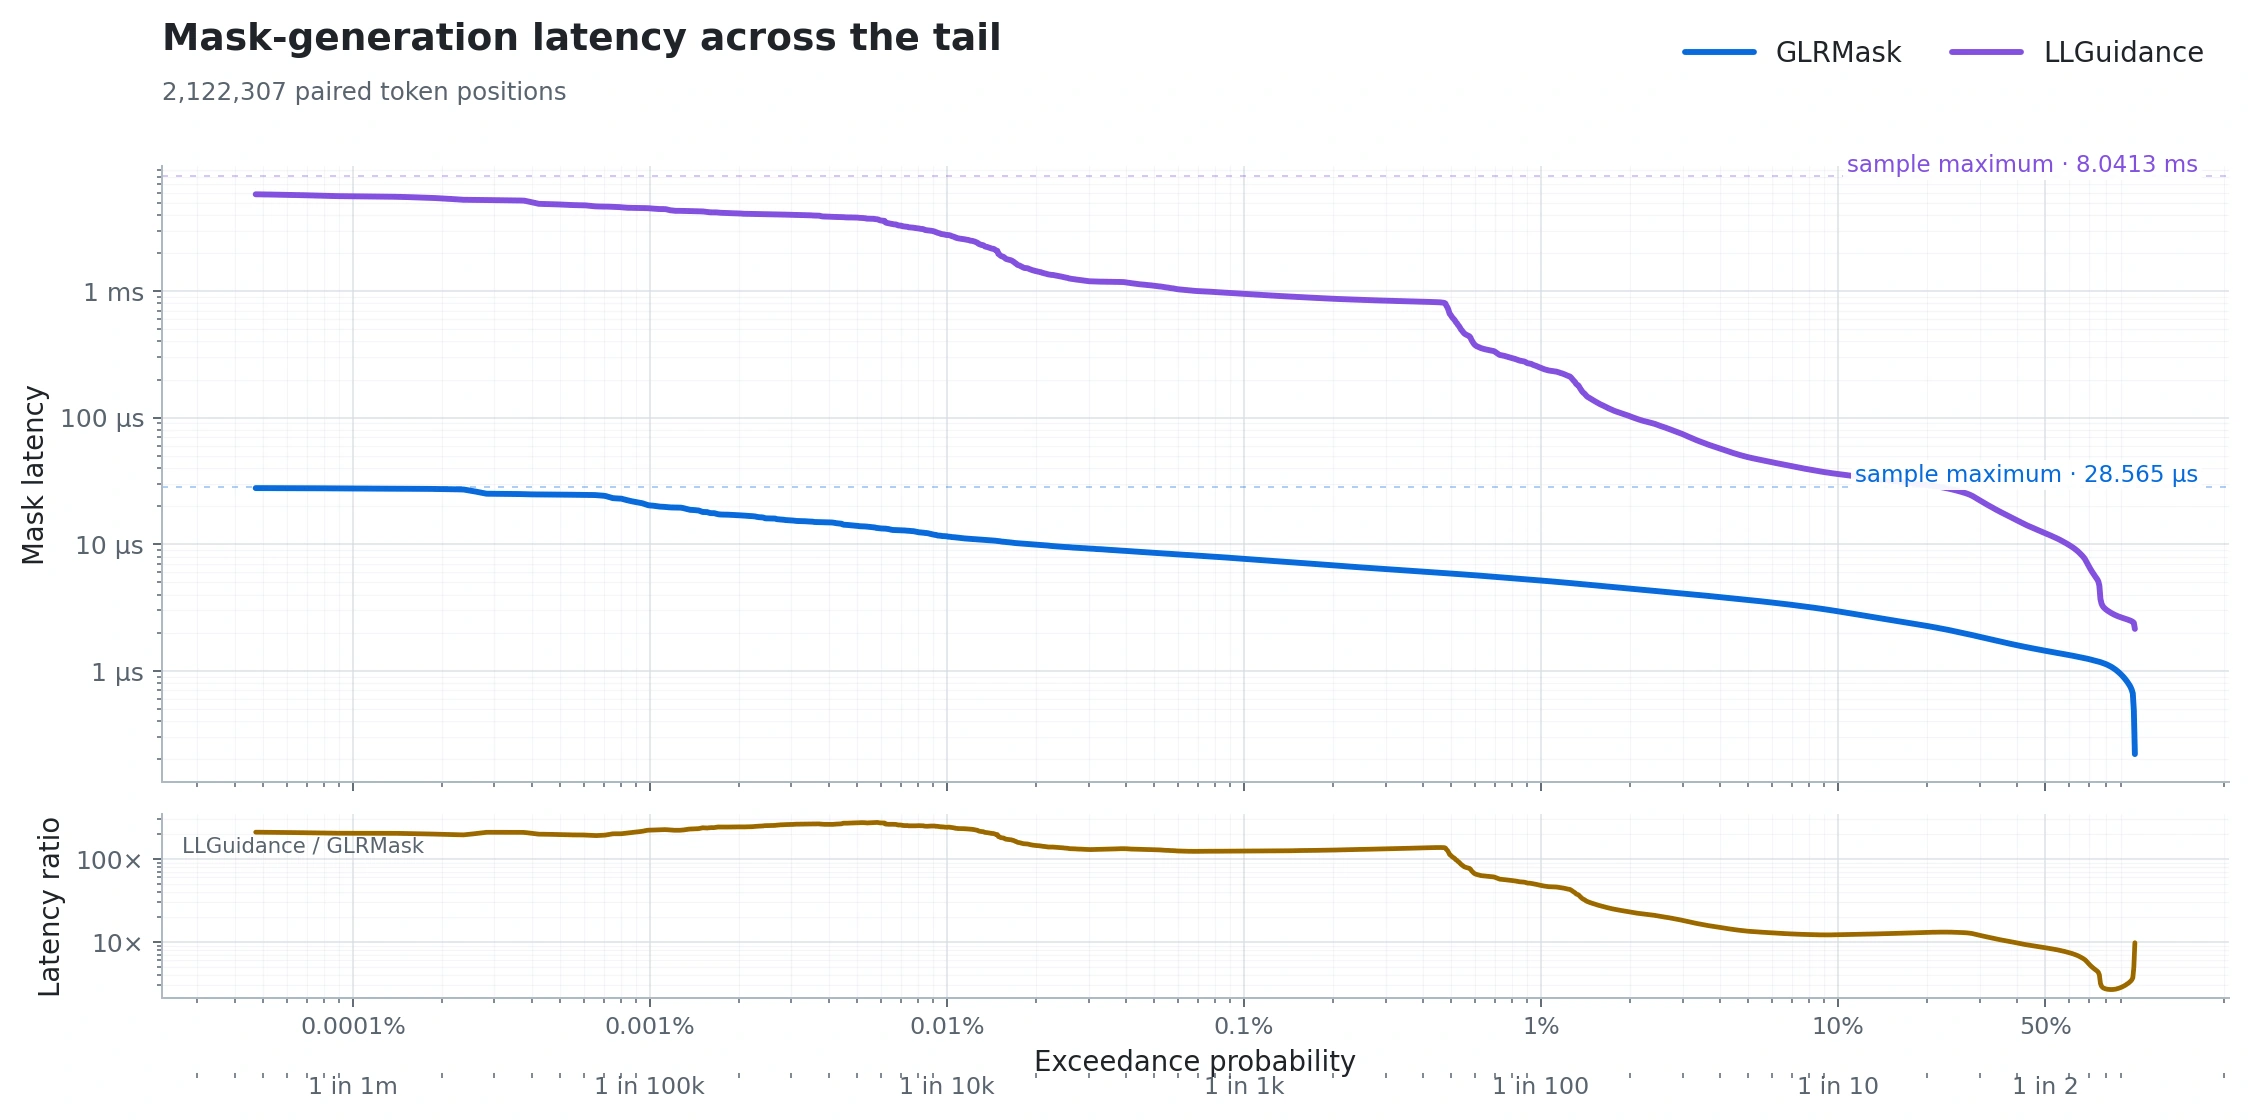
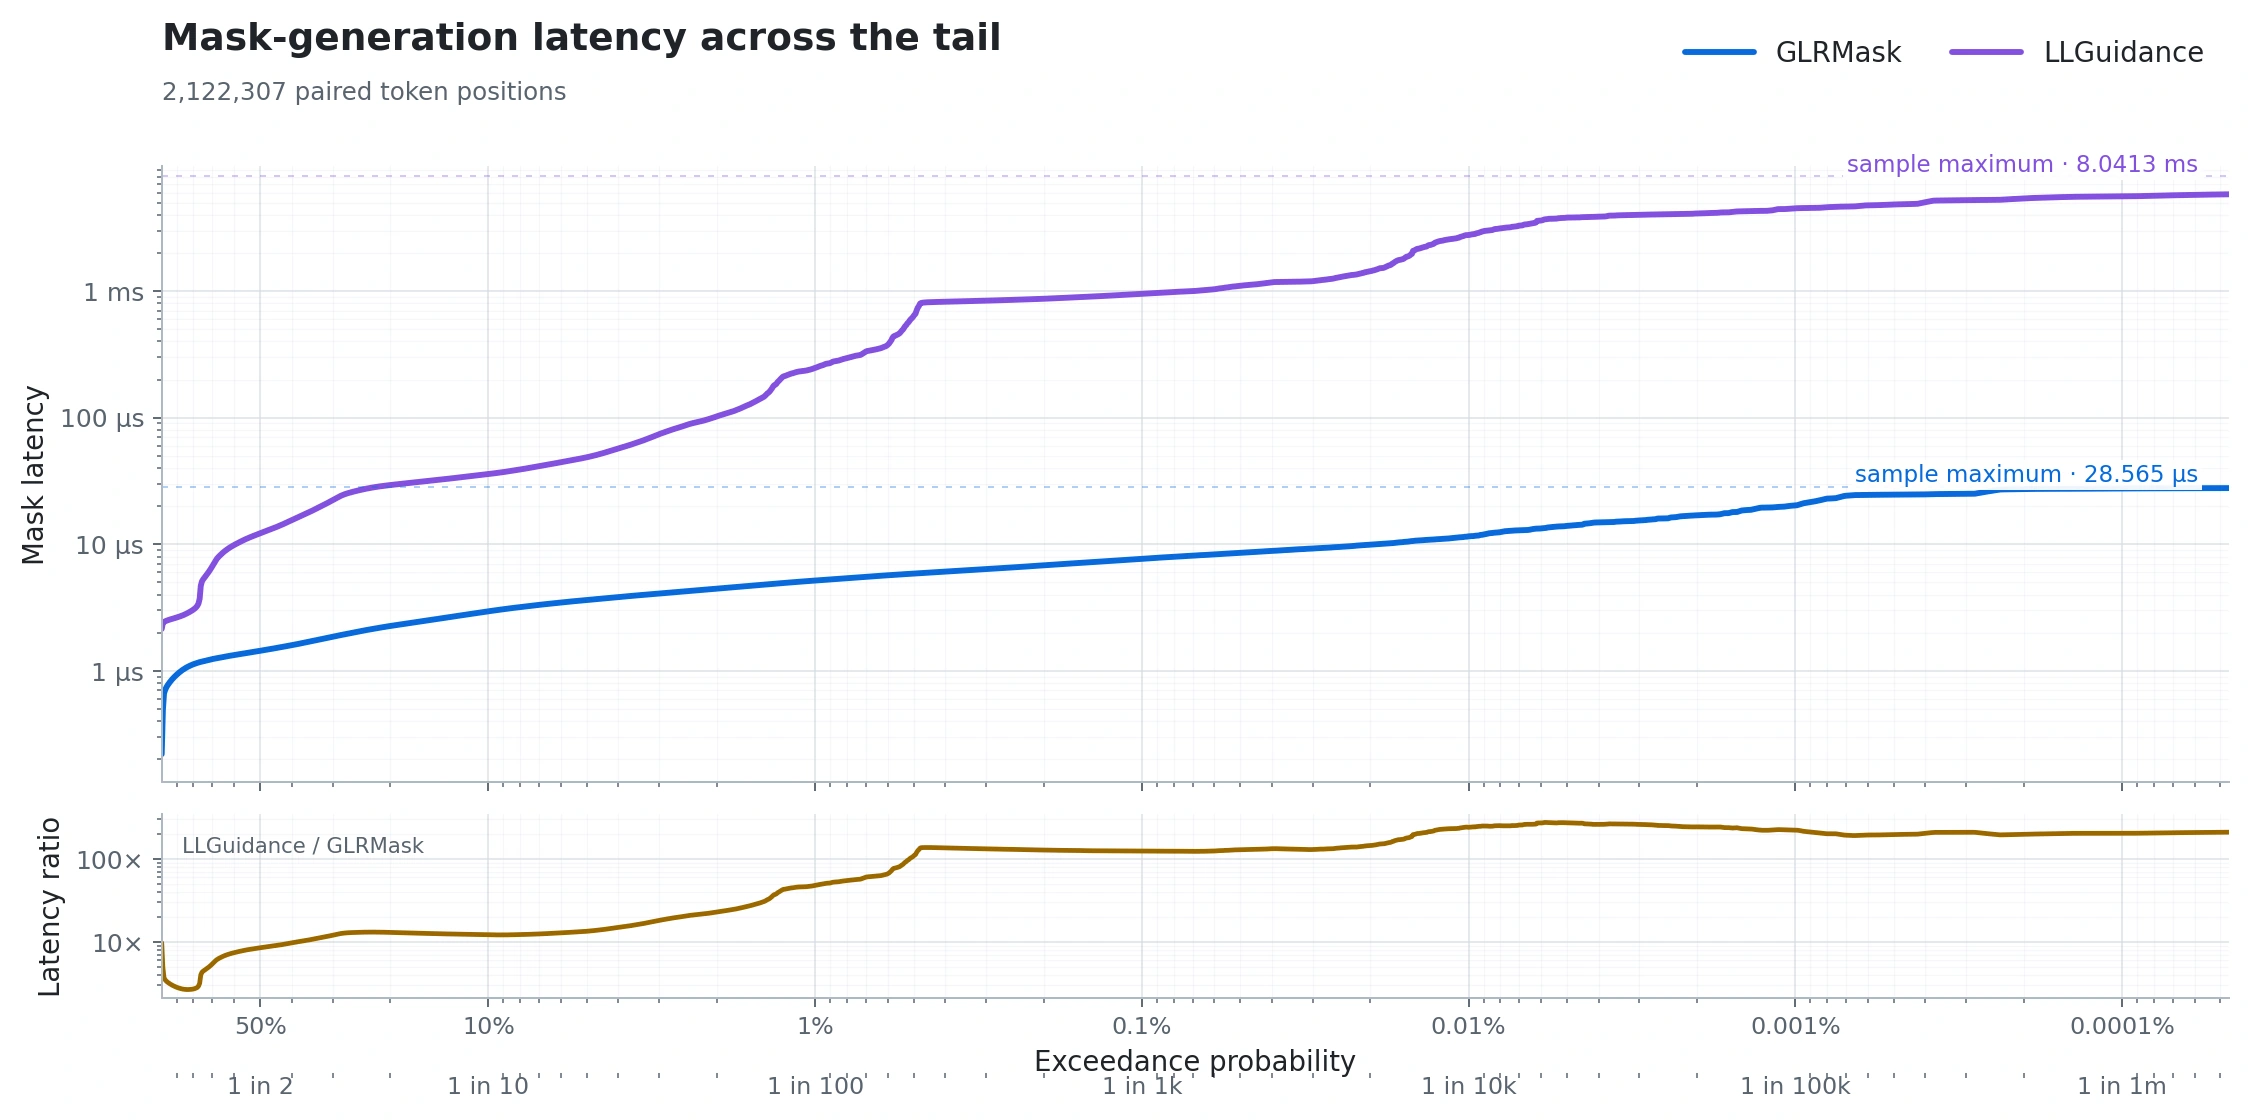
Add README benchmark layout comparison

diff --git a/docs/readme-benchmark-options/cfa-style-plots.md b/docs/readme-benchmark-options/cfa-style-plots.md
@@ -1,0 +1,43 @@
+# GLRMask
+
+GLRMask is a grammar-constrained generation library for high-throughput LLM decoding. It is optimized for extremely low next-token mask latency across the distribution, even for complex grammars.
+
+## Performance
+
+Measured with MaskBench on the JSONSchemaBench corpus, using the Llama 3 vocabulary on an Intel Core i7-13620H under Ubuntu 24.04/WSL2.
+
+> **Preliminary:** these timings are not yet accurate and should not be relied on.
+
+### Mask-generation latency
+
+<p align="center">
+  <picture>
+    <source media="(prefers-color-scheme: dark)" srcset="../assets/benchmark-mask-tail-2026-07-16-dark.webp">
+    <source media="(prefers-color-scheme: light)" srcset="../assets/benchmark-mask-tail-2026-07-16.webp">
+    <img src="../assets/benchmark-mask-tail-2026-07-16.webp" alt="Mask-generation latency tail curves for GLRMask and LLGuidance, with high exceedance probabilities on the left and rarer events on the right" width="100%">
+  </picture>
+</p>
+
+<p align="center">
+  <picture>
+    <source media="(prefers-color-scheme: dark)" srcset="../assets/benchmark-mask-cfa-bars-2026-07-16-dark.webp">
+    <source media="(prefers-color-scheme: light)" srcset="../assets/benchmark-mask-cfa-bars-2026-07-16.webp">
+    <img src="../assets/benchmark-mask-cfa-bars-2026-07-16.webp" alt="CFA-style grouped bars comparing mask-generation latency percentiles for GLRMask and LLGuidance" width="92%">
+  </picture>
+</p>
+
+### Compilation time
+
+<p align="center">
+  <picture>
+    <source media="(prefers-color-scheme: dark)" srcset="../assets/benchmark-compilation-cfa-bars-2026-07-16-dark.webp">
+    <source media="(prefers-color-scheme: light)" srcset="../assets/benchmark-compilation-cfa-bars-2026-07-16.webp">
+    <img src="../assets/benchmark-compilation-cfa-bars-2026-07-16.webp" alt="CFA-style grouped bars comparing compilation-time percentiles for GLRMask and LLGuidance" width="92%">
+  </picture>
+</p>
+
+See the [full benchmark report](../benchmark-full-corpus-2026-07-16.md) for methodology.
+
+---
+
+[Compare the three benchmark layouts](README.md)

diff --git a/docs/readme-benchmark-options/current-plots.md b/docs/readme-benchmark-options/current-plots.md
@@ -1,0 +1,43 @@
+# GLRMask
+
+GLRMask is a grammar-constrained generation library for high-throughput LLM decoding. It is optimized for extremely low next-token mask latency across the distribution, even for complex grammars.
+
+## Performance
+
+Measured with MaskBench on the JSONSchemaBench corpus, using the Llama 3 vocabulary on an Intel Core i7-13620H under Ubuntu 24.04/WSL2.
+
+> **Preliminary:** these timings are not yet accurate and should not be relied on.
+
+### Mask-generation latency
+
+<p align="center">
+  <picture>
+    <source media="(prefers-color-scheme: dark)" srcset="../assets/benchmark-mask-tail-2026-07-16-dark.webp">
+    <source media="(prefers-color-scheme: light)" srcset="../assets/benchmark-mask-tail-2026-07-16.webp">
+    <img src="../assets/benchmark-mask-tail-2026-07-16.webp" alt="Mask-generation latency tail curves for GLRMask and LLGuidance, with high exceedance probabilities on the left and rarer events on the right" width="100%">
+  </picture>
+</p>
+
+<p align="center">
+  <picture>
+    <source media="(prefers-color-scheme: dark)" srcset="../assets/benchmark-mask-summary-2026-07-16-dark.webp">
+    <source media="(prefers-color-scheme: light)" srcset="../assets/benchmark-mask-summary-2026-07-16.webp">
+    <img src="../assets/benchmark-mask-summary-2026-07-16.webp" alt="Mask-generation latency percentile summary for GLRMask and LLGuidance" width="88%">
+  </picture>
+</p>
+
+### Compilation time
+
+<p align="center">
+  <picture>
+    <source media="(prefers-color-scheme: dark)" srcset="../assets/benchmark-compilation-summary-2026-07-16-dark.webp">
+    <source media="(prefers-color-scheme: light)" srcset="../assets/benchmark-compilation-summary-2026-07-16.webp">
+    <img src="../assets/benchmark-compilation-summary-2026-07-16.webp" alt="Compilation-time percentile summary for GLRMask and LLGuidance" width="88%">
+  </picture>
+</p>
+
+See the [full benchmark report](../benchmark-full-corpus-2026-07-16.md) for methodology.
+
+---
+
+[Compare the three benchmark layouts](README.md)

diff --git a/docs/readme-benchmark-options/tables.md b/docs/readme-benchmark-options/tables.md
@@ -1,0 +1,44 @@
+# GLRMask
+
+GLRMask is a grammar-constrained generation library for high-throughput LLM decoding. It is optimized for extremely low next-token mask latency across the distribution, even for complex grammars.
+
+## Performance
+
+Measured with MaskBench on the JSONSchemaBench corpus, using the Llama 3 vocabulary on an Intel Core i7-13620H under Ubuntu 24.04/WSL2.
+
+> **Preliminary:** these timings are not yet accurate and should not be relied on.
+
+### Mask-generation latency
+
+<p align="center">
+  <picture>
+    <source media="(prefers-color-scheme: dark)" srcset="../assets/benchmark-mask-tail-2026-07-16-dark.webp">
+    <source media="(prefers-color-scheme: light)" srcset="../assets/benchmark-mask-tail-2026-07-16.webp">
+    <img src="../assets/benchmark-mask-tail-2026-07-16.webp" alt="Mask-generation latency tail curves for GLRMask and LLGuidance, with high exceedance probabilities on the left and rarer events on the right" width="100%">
+  </picture>
+</p>
+
+| Latency | GLRMask | LLGuidance |
+|---|---:|---:|
+| Mean | **1.743 µs** | 24.179 µs |
+| Median | **1.440 µs** | 12.205 µs |
+| p99 | **5.171 µs** | 247.306 µs |
+| p99.9 | **7.673 µs** | 950.700 µs |
+| p99.99 | **11.556 µs** | 2,771.304 µs |
+| Maximum | **28.565 µs** | 8,041.301 µs |
+
+### Compilation time
+
+| Compilation time | GLRMask | LLGuidance |
+|---|---:|---:|
+| Mean | 86.698 ms | **1.527 ms** |
+| Median | 50.963 ms | **0.904 ms** |
+| p99 | 565.257 ms | **11.711 ms** |
+| p99.9 | 2,221.152 ms | **42.989 ms** |
+| Maximum | 6,440.287 ms | **239.964 ms** |
+
+See the [full benchmark report](../benchmark-full-corpus-2026-07-16.md) for methodology.
+
+---
+
+[Compare the three benchmark layouts](README.md)

diff --git a/docs/readme-benchmark-options/README.md b/docs/readme-benchmark-options/README.md
@@ -1,0 +1,9 @@
+# README benchmark-layout comparison
+
+All three versions use the same paired benchmark data and the same corrected tail plot. They differ only in how the exact summary values are presented.
+
+1. [Tables](tables.md) — tail plot plus exact Markdown tables.
+2. [Current plots](current-plots.md) — tail plot plus the current dumbbell summaries.
+3. [CFA-style A/B plots](cfa-style-plots.md) — tail plot plus polished grouped horizontal bars.
+
+The tail x-axis runs from higher exceedance probability on the left to rarer events on the right.
